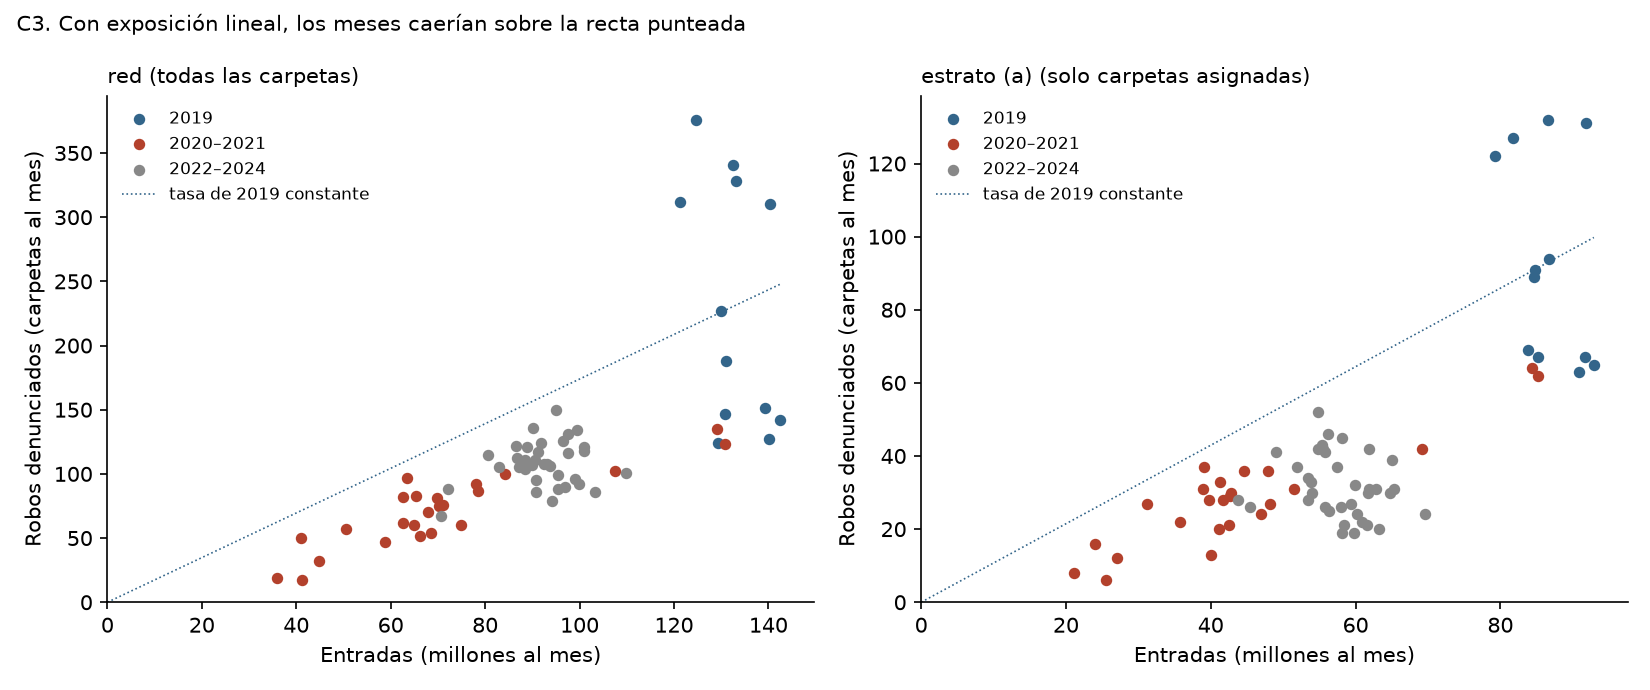
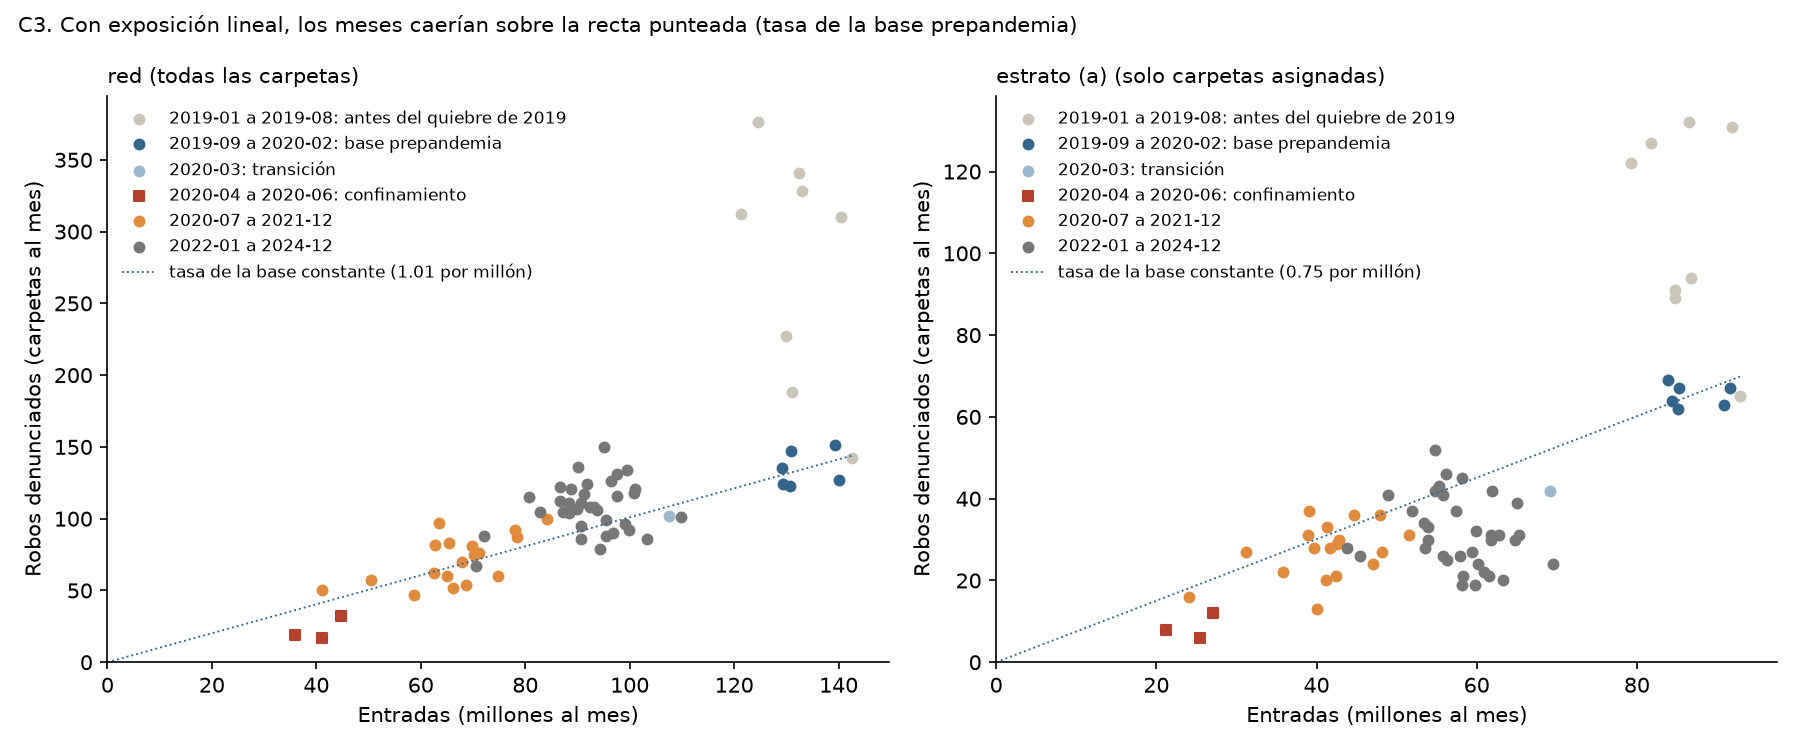
App: pulido, prueba sin conexión, acción de publicación; rehace la figura de C3 con la base prepandemia

diff --git a/docs/app/app.js b/docs/app/app.js
@@ -57,6 +57,7 @@ function dibujaMapa() {
   vistaTotal = { x: 0, y: 0, w, h };
   vista = { ...vistaTotal };
   ponVista();
+  svg.style.aspectRatio = `${w} / ${h}`;
   const defs = el("defs", {}, svg);
   const trama = el("pattern", { id: "trama", width: 4, height: 4, patternUnits: "userSpaceOnUse", patternTransform: "rotate(45)" }, defs);
   el("rect", { width: 4, height: 4, fill: "#d9d7d0" }, trama);
@@ -78,7 +79,7 @@ function dibujaMapa() {
     } else if (s.estrato === "edomex") {
       nodo = el("circle", { class: "est est-edomex", cx: x, cy: y, r: 3 }, ge);
     } else {
-      const r = radio(s.denuncias) * 0.95;
+      const r = s.estrato === "c" ? 7.5 : 3.6 + 0.32 * Math.sqrt(s.denuncias);  // chicas a propósito: no se miden, no deben dominar
       nodo = el("rect", { class: "est est-" + s.estrato, x: x - r, y: y - r, width: 2 * r, height: 2 * r, transform: `rotate(45 ${x} ${y})` }, ge);
       if (s.estrato === "c") el("text", { class: "rotulo", x: x + r + 6, y: y + 4 }, ge).textContent = s.nombre;
     }
@@ -131,7 +132,11 @@ function zoom(f, centro) {
   vista = { x: cx - (cx - vista.x) * k, y: cy - (cy - vista.y) * k, w, h: vista.h * k };
   ponVista();
 }
-function ponVista() { $("#mapa").setAttribute("viewBox", `${vista.x} ${vista.y} ${vista.w} ${vista.h}`); }
+function ponVista() {
+  const svg = $("#mapa");
+  svg.setAttribute("viewBox", `${vista.x} ${vista.y} ${vista.w} ${vista.h}`);
+  svg.classList.toggle("acercado", vista.w < vistaTotal.w * 0.98);
+}
 
 function muestraTooltip(ev, s) {
   const t = $("#tooltip");
@@ -170,6 +175,7 @@ function dibujaLista() {
   const clave = modo === "conteo" ? "pos_conteo" : "pos_tasa";
   const filas = D.estaciones.filter((s) => s.estrato === "a" && (verInsuf || !s.evidencia_insuficiente))
     .sort((p, q) => p[clave] - q[clave] || q.denuncias - p.denuncias);
+  $("#lista-nota").textContent = verInsuf ? "" : `El lugar es entre las ${D.meta.estrato_a.estaciones} estaciones; se saltan números porque ${D.meta.estrato_a.estaciones - filas.length} con menos de ${D.meta.min_denuncias_para_recomendar} denuncias no se listan.`;
   $("#lista-titulo").textContent = modo === "conteo"
     ? `Por CONTEO de robos denunciados · ${filas.length} estaciones sin correspondencia`
     : `Por TASA de denuncias por millón de entradas · ${filas.length} estaciones sin correspondencia`;
@@ -294,16 +300,21 @@ function byar(d) {
 function serieSvg(s) {
   const W = 320, H = 130, m = { l: 30, r: 8, t: 12, b: 30 };
   const abiertas = s.serie.filter((a) => !a.cerrada);
-  const max = Math.max(D.meta.estrato_a.tasa_denuncias_mm * 1.5, ...abiertas.map((a) => a.tasa_ic95[1]));
+  // el techo lo fija la tasa, no un intervalo enorme de un año con dos denuncias; los bigotes que no caben se recortan
+  const max = Math.max(D.meta.estrato_a.tasa_denuncias_mm * 1.5, 1.8 * Math.max(...abiertas.map((a) => a.tasa_denuncias_mm)));
   const x = (i) => m.l + (i + 0.5) * ((W - m.l - m.r) / s.serie.length);
   const y = (v) => H - m.b - (v / max) * (H - m.t - m.b);
+  const ref = D.meta.estrato_a.tasa_denuncias_mm;
   let g = `<line x1="${m.l}" y1="${y(0)}" x2="${W - m.r}" y2="${y(0)}" stroke="#bbb"/>`;
+  g += `<line x1="${m.l}" y1="${y(ref)}" x2="${W - m.r}" y2="${y(ref)}" stroke="#b3412c" stroke-dasharray="3 3" stroke-width=".8"/><text x="${W - m.r}" y="${y(ref) - 3}" text-anchor="end" fill="#b3412c">conjunto del periodo: ${num(ref, 2)}</text>`;
   [0, max].forEach((v) => (g += `<text x="${m.l - 4}" y="${y(v) + 3}" text-anchor="end">${num(v, 1)}</text>`));
   s.serie.forEach((a, i) => {
     g += `<text x="${x(i)}" y="${H - m.b + 12}" text-anchor="middle">${a.anio}</text>`;
     if (a.cerrada) { g += `<text x="${x(i)}" y="${H - m.b + 23}" text-anchor="middle">cerrada</text>`; return; }
     g += `<text x="${x(i)}" y="${H - m.b + 23}" text-anchor="middle">${a.denuncias} den.</text>`;
-    g += `<line x1="${x(i)}" y1="${y(a.tasa_ic95[0])}" x2="${x(i)}" y2="${y(a.tasa_ic95[1])}" stroke="#555" stroke-width="1.4"/>`;
+    const tope = Math.min(a.tasa_ic95[1], max);
+    g += `<line x1="${x(i)}" y1="${y(a.tasa_ic95[0])}" x2="${x(i)}" y2="${y(tope)}" stroke="#555" stroke-width="1.4"/>`;
+    if (a.tasa_ic95[1] > max) g += `<text x="${x(i) + 4}" y="${y(max) + 8}">↑ ${num(a.tasa_ic95[1], 1)}</text>`;
     g += `<circle cx="${x(i)}" cy="${y(a.tasa_denuncias_mm)}" r="3.4" fill="#1d1d1b"/>`;
   });
   return `<svg class="serie" viewBox="0 0 ${W} ${H}" width="100%" role="img" aria-label="Denuncias por millón de entradas por año, con intervalo de Poisson al 95 %">

diff --git a/docs/app/estilo.css b/docs/app/estilo.css
@@ -30,7 +30,8 @@ header { display: flex; gap: 1rem; align-items: flex-end; justify-content: space
 
 main { display: grid; grid-template-columns: minmax(0, 1.25fr) minmax(20rem, 1fr); gap: 1rem; padding: 1rem; align-items: start; }
 #mapa-caja { position: sticky; top: .5rem; background: var(--papel); border: 1px solid var(--linea); border-radius: 8px; overflow: hidden; }
-#mapa { display: block; width: 100%; height: min(78vh, 760px); touch-action: none; cursor: grab; background: var(--papel); }
+#mapa { display: block; width: 100%; height: auto; max-height: 86vh; touch-action: pan-y; cursor: grab; background: var(--papel); }
+#mapa.acercado { touch-action: none; }  /* con la red completa a la vista, un dedo desplaza la página */
 #mapa.arrastrando { cursor: grabbing; }
 .mapa-controles { position: absolute; top: .5rem; right: .5rem; display: flex; flex-direction: column; gap: .25rem; z-index: 2; }
 .mapa-controles button { width: 2.2rem; height: 2.2rem; font-size: 1.1rem; border: 1px solid var(--linea); background: var(--papel); border-radius: 6px; cursor: pointer; }
@@ -46,7 +47,7 @@ main { display: grid; grid-template-columns: minmax(0, 1.25fr) minmax(20rem, 1fr
 .anillo { fill: none; stroke: #f0a500; stroke-width: 2.2; opacity: 0; pointer-events: none; }
 body.modo-tasa .anillo.se-mueve { opacity: 1; animation: pulso 1.6s ease-out 3; }
 @keyframes pulso { 0% { stroke-width: 6; opacity: .2; } 60% { opacity: 1; } 100% { stroke-width: 2.2; opacity: 1; } }
-.rotulo { font-size: 11px; font-weight: 700; paint-order: stroke; stroke: #fff; stroke-width: 3px; pointer-events: none; }
+.rotulo { font-size: 13px; font-weight: 700; paint-order: stroke; stroke: #fff; stroke-width: 3px; pointer-events: none; }
 
 #leyenda { display: flex; flex-wrap: wrap; gap: .35rem 1rem; padding: .5rem .7rem; border-top: 1px solid var(--linea); font-size: .74rem; color: var(--tinta-2); align-items: center; }
 #leyenda .item { display: inline-flex; align-items: center; gap: .35rem; }
@@ -76,6 +77,7 @@ body.modo-tasa .anillo.se-mueve { opacity: 1; animation: pulso 1.6s ease-out 3; 
 .etiqueta.insuf { background: #eee; color: #555; }
 .etiqueta.nomedible { background: #e4e2dc; color: #333; }
 .nota { font-size: .8rem; color: var(--tinta-2); margin: .4rem 0 0; }
+.serie { max-width: 400px; display: block; margin-top: .5rem; }
 .serie text { font-size: 10px; fill: var(--tinta-2); }
 
 .lista-cabeza { margin-bottom: .4rem; }
@@ -99,8 +101,8 @@ footer { padding: .4rem 1rem 1.5rem; font-size: .72rem; color: var(--tinta-2); }
 
 @media (max-width: 860px) {
   main { grid-template-columns: 1fr; padding: .6rem; gap: .6rem; }
-  #mapa-caja { position: static; }
-  #mapa { height: 62vh; }
+  #mapa-caja { position: relative; top: 0; }
+  #mapa { max-height: 70vh; }
   header { padding: .6rem; }
   h1 { font-size: 1rem; }
   .interruptor { width: 100%; }

diff --git a/docs/app/sw.js b/docs/app/sw.js
@@ -1,6 +1,6 @@
 /* Guarda la página completa para que abra y recargue sin conexión. No hay nada más que guardar:
    la app no pide nada a ningún servidor ajeno. Al cambiar algo, sube VERSION. */
-const VERSION = "metro-denuncias-v1";
+const VERSION = "metro-denuncias-v3";
 const ARCHIVOS = ["./", "index.html", "estilo.css", "app.js", "datos.json"];
 
 self.addEventListener("install", (ev) => {

diff --git a/docs/app/index.html b/docs/app/index.html
@@ -52,6 +52,7 @@
         <h2 id="lista-titulo">Estaciones sin correspondencia</h2>
         <label class="casilla"><input type="checkbox" id="ver-insuficientes"> Ver también las de menos de <span id="min-d">15</span> denuncias <em>(evidencia insuficiente)</em></label>
       </div>
+      <p id="lista-nota" class="nota"></p>
       <ol id="lista"></ol>
     </section>
   </aside>

diff --git a/src/metro/05_estrato_paso.py b/src/metro/05_estrato_paso.py
@@ -223,15 +223,23 @@ def c3(panel: pd.DataFrame, den: pd.DataFrame) -> None:
     fig.savefig(FIGURAS / "c3_tasa_vs_afluencia.png", dpi=150)
     plt.close(fig)
 
-    fig, ax = plt.subplots(1, 2, figsize=(11, 4.6))
+    fig, ax = plt.subplots(1, 2, figsize=(12, 5))
     for a_, (nombre, s) in zip(ax, series.items()):
-        anio = s["anio_mes"].str[:4].astype(int)
-        for etiqueta, m, c in [("2019", anio == 2019, "#33658a"), ("2020–2021", anio.isin([2020, 2021]), "#b3412c"),
-                               ("2022–2024", anio >= 2022, "#888888")]:
-            a_.scatter(s.loc[m, "entradas"] / 1e6, s.loc[m, "robos_denunciados"], color=c, s=20, label=etiqueta)
-        k = s.loc[anio == 2019, "robos_denunciados"].sum() / s.loc[anio == 2019, "entradas"].sum()
+        # Los mismos tramos de la tabla. La recta es la tasa de la BASE prepandemia (2019-09 a
+        # 2020-02), no la de 2019 completo: 2019 trae un quiebre propio, con la afluencia plana.
+        mes = s["anio_mes"]
+        grupos = [("2019-01 a 2019-08: antes del quiebre de 2019", mes.between("2019-01", "2019-08"), "#c9c5b8", "o"),
+                  ("2019-09 a 2020-02: base prepandemia", mes.between("2019-09", "2020-02"), "#33658a", "o"),
+                  ("2020-03: transición", mes == "2020-03", "#9db7cc", "o"),
+                  ("2020-04 a 2020-06: confinamiento", mes.between("2020-04", "2020-06"), "#b3412c", "s"),
+                  ("2020-07 a 2021-12", mes.between("2020-07", "2021-12"), "#e08a3c", "o"),
+                  ("2022-01 a 2024-12", mes >= "2022-01", "#777777", "o")]
+        for etiqueta, m, c, marca in grupos:
+            a_.scatter(s.loc[m, "entradas"] / 1e6, s.loc[m, "robos_denunciados"], color=c, s=22, marker=marca, label=etiqueta)
+        base = mes.between("2019-09", "2020-02")
+        k = s.loc[base, "robos_denunciados"].sum() / s.loc[base, "entradas"].sum()
         xs = np.array([0, s["entradas"].max() / 1e6])
-        a_.plot(xs, k * xs * 1e6, color="#33658a", lw=0.8, ls=":", label="tasa de 2019 constante")
+        a_.plot(xs, k * xs * 1e6, color="#33658a", lw=0.9, ls=":", label=f"tasa de la base constante ({1e6 * k:.2f} por millón)")
         a_.set_xlabel("Entradas (millones al mes)")
         a_.set_ylabel("Robos denunciados (carpetas al mes)")
         a_.set_xlim(left=0)
@@ -239,7 +247,7 @@ def c3(panel: pd.DataFrame, den: pd.DataFrame) -> None:
         a_.set_title(nombre, fontsize=10, loc="left")
         a_.legend(frameon=False, fontsize=8)
         a_.spines[["top", "right"]].set_visible(False)
-    fig.suptitle("C3. Con exposición lineal, los meses caerían sobre la recta punteada", fontsize=10, x=0.01, ha="left")
+    fig.suptitle("C3. Con exposición lineal, los meses caerían sobre la recta punteada (tasa de la base prepandemia)", fontsize=10, x=0.01, ha="left")
     fig.tight_layout()
     fig.savefig(FIGURAS / "c3_denuncias_vs_entradas.png", dpi=150)
     plt.close(fig)

diff --git a/src/metro/correr.py b/src/metro/correr.py
@@ -19,7 +19,8 @@ import subprocess
 import sys
 from pathlib import Path
 
-PASOS = ["01_llave_estaciones.py", "02_panel_estacion.py", "03_pruebas.py", "04_agencias.py", "05_estrato_paso.py"]
+PASOS = ["01_llave_estaciones.py", "02_panel_estacion.py", "03_pruebas.py", "04_agencias.py", "05_estrato_paso.py",
+         "06_app_datos.py"]
 SIGUE_AUNQUE_FALLE_LA_PRUEBA = {"03_pruebas.py", "04_agencias.py"}
 
 

diff --git a/docs/decisiones.md b/docs/decisiones.md
@@ -36,3 +36,8 @@ rúbrica, §2.1, pide la razón y no la descripción). El numerador son siempre 
 | 28 | 2026-09-20 | **C3, criterio fijado antes de correr** *(advertencia: la tabla T4 de la fase 2b ya dejaba ver que la tasa anual del estrato de paso cae de 0.95 en 2019 a 0.51 en 2020)*: la exposición lineal «se sostiene» si la tasa anual de 2020 y de 2021 queda dentro de ±25 % de la de 2019. A nivel red se usan TODAS las carpetas (no hace falta estación); en el estrato (a) solo las asignadas, así que ahí la serie desde 2022 está además sesgada a la baja por las coordenadas que faltan (715 de 1,041 son Denuncia Digital) | Ajustar una elasticidad | Esta sesión no ajusta modelos; una banda sobre la tasa anual basta para decir si dividir entre entradas es inocuo o no |
 | 29 | 2026-09-20 | **Comprobación agregada DESPUÉS de ver C3, y por C3:** como la tasa del estrato cae a la mitad tras 2019 y las líneas 1 y 12 estuvieron cerradas en los años de tasa baja, el orden por tasa se repite **descontando el año** (estandarización indirecta: denuncias esperadas = Σ por año de las entradas de la estación × la tasa del estrato ese año; razón observadas/esperadas con intervalo de Byar). Una estación queda «firme» solo si se distingue del estrato con la tasa cruda **y** con la razón | No hacerla, porque el encargo no la pedía; o ajustar un modelo con efectos de año | Sin ella, T5 podía estar premiando a las estaciones que cerraron: es una amenaza directa a la recomendación y se resuelve con aritmética. No es un modelo: no se estima nada, se reparte la tasa anual observada. No se fijó antes de ver resultados y se dice |
 | 30 | 2026-09-20 | **C3 se lee contra una base prepandemia de septiembre de 2019 a febrero de 2020, además del criterio fijado contra 2019 (decisión 28), que se reporta tal cual aunque salió mal planteado.** Decidido DESPUÉS de ver la gráfica | Quedarse solo con el criterio «contra 2019»; o cambiarlo en silencio | La gráfica muestra que las denuncias caen de unas 330 al mes a unas 130 entre enero y agosto de 2019 con la afluencia plana: 2019 no es una base estable y compararlo entero contra 2020 mezcla ese quiebre con la pandemia. Se reportan las dos lecturas y se dice cuál se fijó antes |
+| 31 | 2026-09-20 | **App: la lista ordena por TASA cruda (`tasa_denuncias_mm`) y el mapa colorea por la razón observadas ÷ esperadas** | Una sola medida para las dos cosas | El interruptor tiene que contrastar lo que cualquiera entiende (denuncias contra denuncias por pasajero) y las posiciones coinciden con las de `fase3-t5.md`; el color, en cambio, debe descontar el año para no pintar de rojo a las estaciones de las líneas que cerraron. Las dos medidas tienen correlación de rangos de 0.994, así que no se contradicen a la vista |
+| 32 | 2026-09-20 | **App: menos de 15 denuncias = «evidencia insuficiente»** (42 de las 124): no se listan por defecto, se dibujan huecas y punteadas, y nunca cuentan como «se mueve más de 20 lugares» ni como «firmes» | Listarlas todas por igual | Regla del encargo. Sin ella, la cabeza del orden por tasa la ocuparían estaciones con 5 a 12 denuncias en seis años. Los lugares que se muestran siguen siendo entre las 124, así que en la lista se saltan números: la app lo dice |
+| 33 | 2026-09-20 | **App: las correspondencias se dibujan chicas, con trama gris, y no se dimensionan como las demás** | Dimensionarlas por denuncias con la misma escala | Con la misma escala, Pantitlán e Hidalgo tapaban el mapa y lo primero que se entendía era el conteo de lo que justo no se puede medir |
+| 34 | 2026-09-20 | **App sin D3 ni ninguna dependencia externa, con `service worker`** | D3 desde CDN, que el encargo permitía | No hizo falta, y una dependencia de CDN es un servidor ajeno que puede no responder el día de la demo. El `service worker` hace que además recargue sin red |
+| 35 | 2026-09-20 | **Publicación por una acción que sube solo `docs/app`, no «Pages sobre `docs/`»** | Lo que pedía el encargo: Pages sobre `docs/` en `main` | Pages sobre `docs/` haría público todo `docs/`, incluido `caso-2.md` (texto íntegro del ITAM, cuyo propio encabezado pide decidir antes de abrirlo) y las notas de las reuniones. Queda pendiente de una decisión de Sebas: el repo es privado y el plan no permite Pages en repos privados |

diff --git a/docs/uso-ia.md b/docs/uso-ia.md
@@ -17,6 +17,7 @@ pasarlas a este formato.*
 | 2026-09-20 | Claude Code (Claude Fable 5.1) | Fase 2 del encuadre del Metro, solo datos, pruebas de viabilidad y EDA, sin modelo, dashboard ni reporte: llave de estaciones, panel estación × mes, y las pruebas C1–C3 en orden parando en la primera que fallara | `src/metro/` (`comun.py`, `01_llave_estaciones.py`, `02_panel_estacion.py`, `03_pruebas.py`, `correr.py`), la fuente `metro` en `src/descarga.py`, `docs/decisiones.md` y `docs/fase2-pruebas.md`. La lista de las 28 correspondencias la escribió la herramienta de memoria y el script la contrasta contra el campo `TIPO` del shapefile (coinciden). El criterio de falla de C2 lo propuso la herramienta y quedó escrito antes de correr la prueba. **C2 falló** y la sesión paró ahí: no hay C3, EDA ni `hipotesis.md` | *Por llenar por Sebas: qué se hizo con el encuadre después de C2* |
 | 2026-09-20 | Claude Code (Claude Fable 5.1) | Fase 2b, sin modelo: poner a prueba la hipótesis de que el orden por tasa mide dónde se puede denunciar (agencias del MP del Metro), con T0 a T7, dos puntos de paro, y un registro de las publicaciones que ordenan estaciones por conteo | `src/metro/04_agencias.py`, el catálogo `AGENCIAS` y el canal de denuncia en `comun.py`, `tiene_agencia` y los canales en el panel, `docs/fase2b-agencias.md`, `docs/fuentes-conteo.md` y las decisiones 14 a 23. La herramienta encontró que las carpetas traen la agencia que las abrió (`fiscalia`, `agencia`) y propuso usar eso para fechar las agencias y para la prueba del canal digital; buscó y abrió las fuentes oficiales de la FGJ, Denuncia Digital y la ADIP. Los controles de T2 y los criterios de anomalía los propuso la herramienta y quedaron escritos antes de correr. **El efecto agencia no quedó establecido** y la sesión paró: no hay T5, T6, EDA ni `hipotesis.md`. No localizó el PDF del Consejo de Evaluación ni la declaración de la Fiscalía sobre «cantidad de usuarios», y lo dice | *Por llenar por Sebas* |
 | 2026-09-20 | Claude Code (Claude Fable 5.1) | Una sola compuerta, sin modelo ni EDA: T5 (¿conteo y tasa ordenan distinto en las estaciones sin correspondencia de la CDMX?, con mínimos de 20 y 30 denuncias y umbrales de 100, 150 y 250 m) y C3, que había quedado pendiente | `src/metro/05_estrato_paso.py`, `docs/fase3-t5.md`, las figuras `c3_*.png` y las decisiones 24 a 30. **T5 pasa** (Spearman 0.45, 3 coincidencias). Dos cosas fueron iniciativa de la herramienta y no estaban en el encargo: la comprobación «descontando el año» (estandarización indirecta), porque C3 mostró que las líneas cerradas concentran su exposición en 2019, y la lectura de C3 contra una base prepandemia, porque la gráfica mostró que el criterio fijado contra 2019 estaba mal planteado. Las dos se decidieron después de ver resultados y así quedó escrito. La herramienta también corrigió el tamaño del estrato: 124 estaciones, no 123 | *Por llenar por Sebas* |
+| 2026-09-20 | Claude Code (Claude Fable 5.1) | Construir y publicar la app estática (un HTML, CSS y JS propios, un solo `datos.json`, mapa en SVG sin teselas, interruptor conteo/tasa, fichas por estación, funcionar sin conexión) y rehacer una figura de C3. Sin análisis nuevo | `src/metro/06_app_datos.py`, `docs/app/` completo (`index.html`, `estilo.css`, `app.js`, `sw.js`, `datos.json`, `README.md`), `.github/workflows/pages.yml`, la figura `c3_denuncias_vs_entradas.png` rehecha y las decisiones 31 a 35. Todo el código de la app lo escribió la herramienta; la probó en Chrome a ancho de escritorio y de celular, y sin conexión con el servidor apagado. **No quedó publicada**: el repo es privado y el plan de GitHub no permite Pages ahí; la herramienta no cambió la visibilidad del repo ni empujó a `main` | *Por llenar por Sebas* |
 
 ## Cómo leer lo que produce la herramienta
 

diff --git a/docs/app/README.md b/docs/app/README.md
@@ -1,0 +1,48 @@
+# La app
+
+Página estática: `index.html`, `estilo.css`, `app.js`, `sw.js` y un solo archivo de datos,
+`datos.json`. Sin backend, sin paso de compilación, sin framework y sin ninguna dependencia
+externa: ni D3, ni teselas de mapa, ni tipografías de fuera. El mapa es un SVG que se
+dibuja con las coordenadas de las estaciones y las polilíneas de las líneas. El día de la
+demo no depende de que responda ningún servidor ajeno.
+
+## Verla en tu máquina
+
+```bash
+cd docs/app
+python3 -m http.server 8000      # y abre http://localhost:8000
+```
+
+Hace falta un servidor (aunque sea ese) porque el navegador no deja leer `datos.json` desde
+`file://`.
+
+## Rehacer los datos
+
+```bash
+python src/descarga.py --fuente estaciones   # una vez
+python src/metro/correr.py                   # 01 a 06; el último escribe docs/app/datos.json
+```
+
+`datos.json` pesa unos 140 KB y se versiona: la página publicada no recalcula nada.
+
+## Sin conexión
+
+`sw.js` guarda los cinco archivos la primera vez que se abre la página; después abre y
+recarga sin red. Probado el 2026-09-20: con el servidor apagado, la página recarga, dibuja
+las 163 estaciones, el interruptor reordena y las fichas abren. **Al cambiar cualquier
+archivo hay que subir `VERSION` en `sw.js`**, o los navegadores que ya la abrieron pueden
+quedarse con la versión anterior cuando no tengan red.
+
+## Publicación
+
+`.github/workflows/pages.yml` publica **solo esta carpeta** en GitHub Pages cuando cambia en
+`main`. No se usa «Pages sobre `docs/`» porque `docs/` trae material que no debe quedar
+público por accidente (el texto del caso del ITAM, las notas de las reuniones).
+
+## Reglas de contenido que el código respeta
+
+- El numerador son DENUNCIAS. Ningún eje, leyenda ni tooltip dice «robos» a secas.
+- Ningún número puntual sin su intervalo (Poisson, aproximación de Byar, 95 %).
+- Las estaciones con menos de 15 denuncias no se listan por defecto, van marcadas como
+  «evidencia insuficiente» y nunca se resaltan como movimiento ni como «firmes».
+- La fecha de corte va en el encabezado y en el panel «Qué mide esto», no en el pie.
